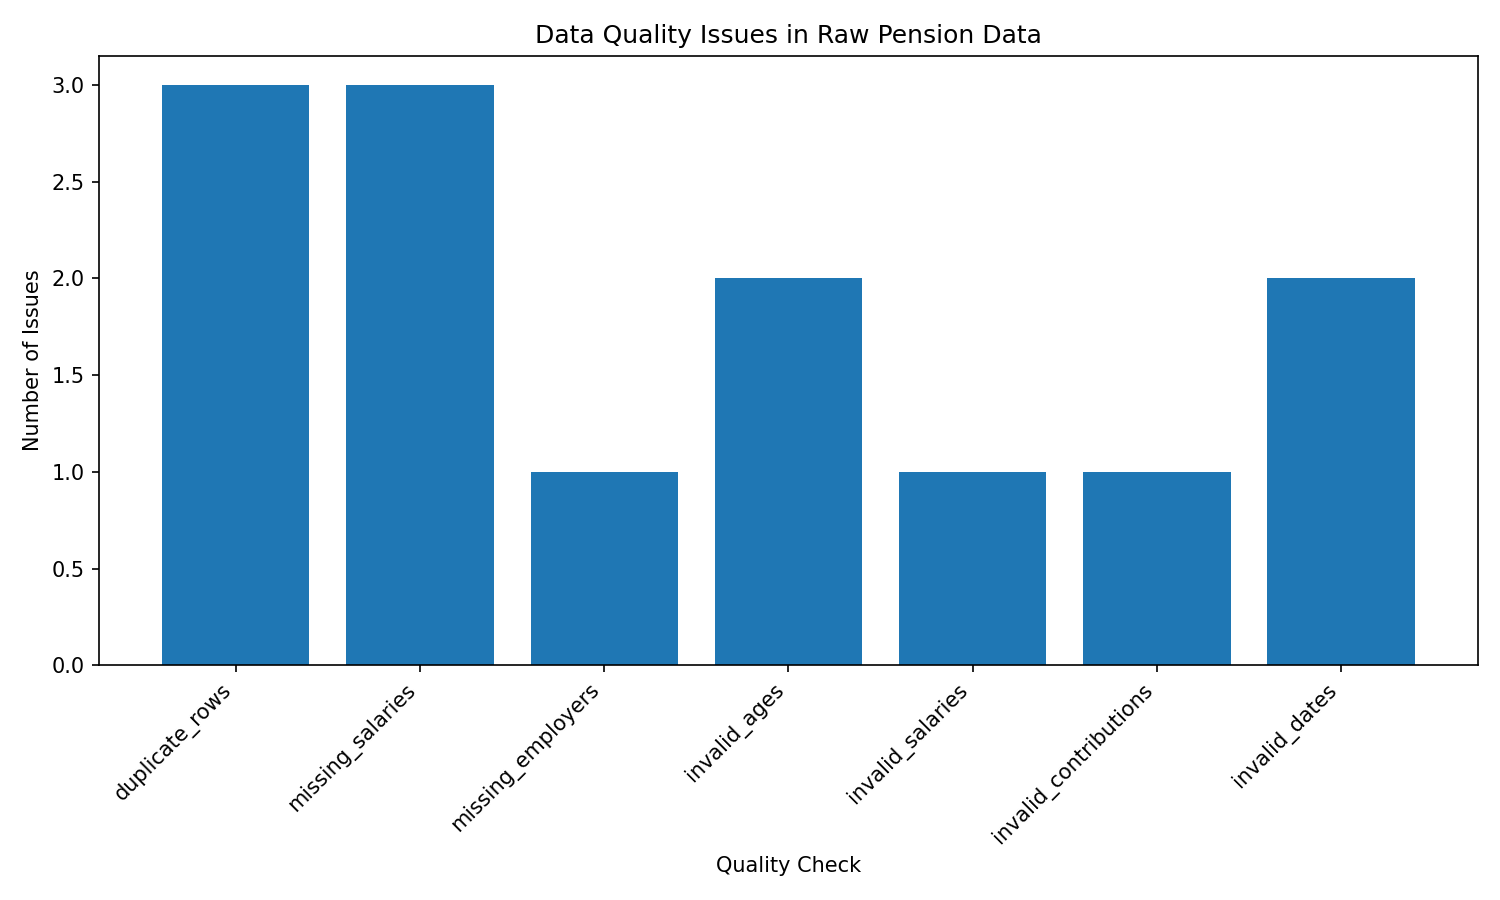
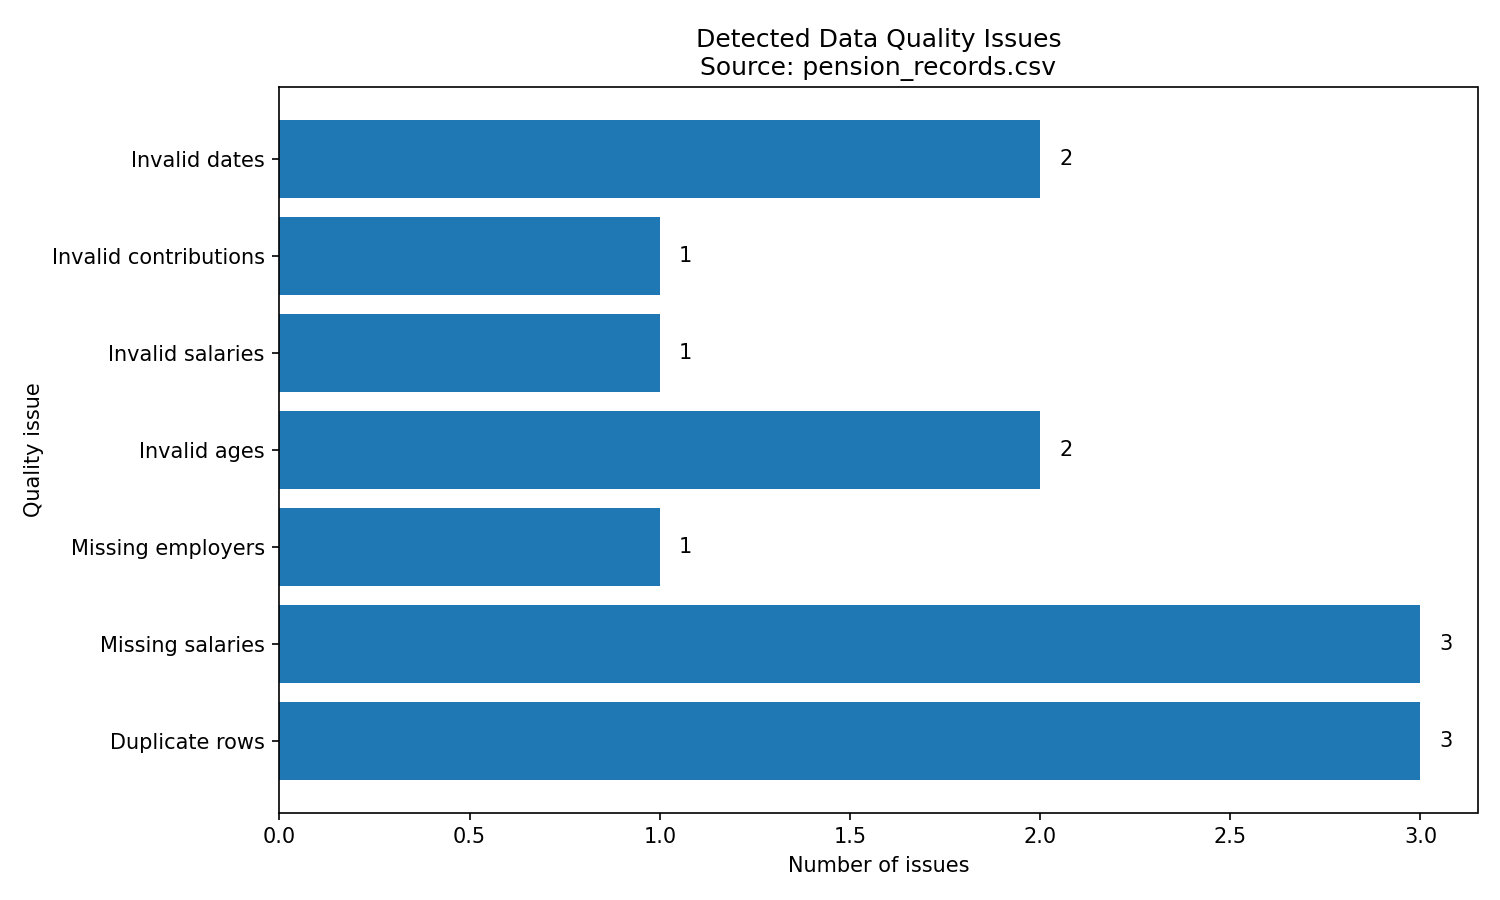
Add data quality scores and improve visualization

diff --git a/src/analyze_data.py b/src/analyze_data.py
@@ -156,6 +156,66 @@ total_issues = (
     + invalid_dates_count
 )
 
+# -------------------------
+# Data Quality Scores
+# -------------------------
+
+# Completeness:
+# Eine Zeile gilt als vollständig, wenn alle Pflichtfelder befüllt sind.
+required_columns = [
+    "person_id",
+    "age",
+    "annual_salary_chf",
+    "entry_date",
+    "employer",
+    "annual_contribution_chf",
+]
+
+incomplete_rows = df[
+    required_columns
+].isna().any(axis=1)
+
+complete_rows = (~incomplete_rows).sum()
+
+completeness_score = (
+    complete_rows / len(df) * 100
+)
+
+
+# Validity:
+# Eine Zeile gilt als ungültig, wenn mindestens eine
+# fachliche Validierungsregel verletzt wird.
+invalid_rows = (
+    (df["age"] < 18)
+    | (df["age"] > 100)
+    | (df["annual_salary_chf"] <= 0)
+    | (df["annual_contribution_chf"] <= 0)
+    | parsed_entry_dates.isna()
+)
+
+valid_rows = (~invalid_rows).sum()
+
+validity_score = (
+    valid_rows / len(df) * 100
+)
+
+
+# Uniqueness:
+# person_id soll jede Person eindeutig identifizieren.
+unique_person_ids = df["person_id"].nunique()
+
+uniqueness_score = (
+    unique_person_ids / len(df) * 100
+)
+
+
+# Overall Data Quality Score
+overall_score = (
+    completeness_score
+    + validity_score
+    + uniqueness_score
+) / 3
+
 print("\n=== DATA QUALITY REPORT ===")
 
 print(f"Rows:                     {len(df)}")
@@ -169,6 +229,19 @@ print(f"Invalid dates:            {invalid_dates_count}")
 
 print("-" * 40)
 print(f"Total detected issues:    {total_issues}")
+
+print("\n=== DATA QUALITY SCORES ===")
+
+print(f"Completeness:              {completeness_score:.1f} %")
+print(f"Validity:                  {validity_score:.1f} %")
+print(f"Uniqueness:                {uniqueness_score:.1f} %")
+
+print("-" * 40)
+
+print(
+    f"Overall Data Quality Score: "
+    f"{overall_score:.1f} %"
+)
 
 report = pd.DataFrame(
     {
@@ -202,7 +275,42 @@ report.to_csv(
     index=False,
 )
 
+score_report = pd.DataFrame(
+    {
+        "dimension": [
+            "Completeness",
+            "Validity",
+            "Uniqueness",
+            "Overall Data Quality Score",
+        ],
+        "score_percent": [
+            completeness_score,
+            validity_score,
+            uniqueness_score,
+            overall_score,
+        ],
+    }
+)
+
+score_report["score_percent"] = (
+    score_report["score_percent"].round(1)
+)
+
+score_path = Path(
+    "reports/data_quality_scores.csv"
+)
+
+score_report.to_csv(
+    score_path,
+    index=False
+)
+
 print(
-    f"\nReport gespeichert: "
+    f"Score Report saved: "
+    f"{score_path}"
+)
+
+print(
+    f"\nReport saved: "
     f"{report_path}"
 )

diff --git a/src/visualize_quality.py b/src/visualize_quality.py
@@ -4,58 +4,55 @@ import matplotlib.pyplot as plt
 import pandas as pd
 
 
-# -------------------------
-# Report einlesen
-# -------------------------
-
-input_path = Path(
-    "reports/data_quality_comparison.csv"
-)
-
+input_path = Path("reports/data_quality_comparison.csv")
 df = pd.read_csv(input_path)
 
+label_mapping = {
+    "duplicate_rows": "Duplicate rows",
+    "missing_salaries": "Missing salaries",
+    "missing_employers": "Missing employers",
+    "invalid_ages": "Invalid ages",
+    "invalid_salaries": "Invalid salaries",
+    "invalid_contributions": "Invalid contributions",
+    "invalid_dates": "Invalid dates",
+}
 
-# -------------------------
-# Diagramm erstellen
-# -------------------------
+df["label"] = df["quality_check"].map(label_mapping)
 
-plt.figure(figsize=(10, 6))
+source_path = Path("data/raw/pension_records.csv")
 
-plt.bar(
-    df["quality_check"],
+fig = plt.figure(figsize=(10, 6))
+
+bars = plt.barh(
+    df["label"],
     df["raw_data"]
 )
 
+fig.canvas.manager.set_window_title(
+    f"Data Quality Analysis - {source_path.name}"
+)
+
 plt.title(
-    "Data Quality Issues in Raw Pension Data"
+    f"Detected Data Quality Issues\nSource: {source_path.name}"
 )
 
-plt.xlabel("Quality Check")
-plt.ylabel("Number of Issues")
+plt.xlabel("Number of issues")
+plt.ylabel("Quality issue")
 
-plt.xticks(
-    rotation=45,
-    ha="right"
-)
+
+for bar in bars:
+    width = bar.get_width()
+    plt.text(
+        width + 0.05,
+        bar.get_y() + bar.get_height() / 2,
+        f"{int(width)}",
+        va="center"
+    )
 
 plt.tight_layout()
 
-
-# -------------------------
-# Diagramm speichern
-# -------------------------
-
-output_path = Path(
-    "reports/data_quality_issues.png"
-)
-
-plt.savefig(
-    output_path,
-    dpi=150
-)
-
+output_path = Path("reports/data_quality_issues.png")
+plt.savefig(output_path, dpi=150)
 plt.show()
 
-print(
-    f"Diagramm gespeichert: {output_path}"
-)
+print(f"Figure saved: {output_path}")

diff --git a/src/generate_data.py b/src/generate_data.py
@@ -133,8 +133,8 @@ df.to_csv(
     index=False,
 )
 
-print(f"Datensatz gespeichert: {output_path}")
-print(f"Anzahl Datensätze: {len(df)}")
+print(f"File saved: {output_path}")
+print(f"Number of records: {len(df)}")
 
-print("\nErste fünf Datensätze:")
+print("\nFirst five records:")
 print(df.head())

diff --git a/src/clean_data.py b/src/clean_data.py
@@ -86,5 +86,5 @@ df_clean.to_csv(
     index=False
 )
 
-print(f"Bereinigte Datensätze: {len(df_clean)}")
-print(f"Datei gespeichert: {output_path}")
+print(f"Cleaned records: {len(df_clean)}")
+print(f"File saved: {output_path}")

diff --git a/src/validate_clean_data.py b/src/validate_clean_data.py
@@ -99,5 +99,5 @@ comparison.to_csv(
 )
 
 print(
-    f"\nVergleich gespeichert: {output_path}"
+    f"\nComparison saved: {output_path}"
 )
